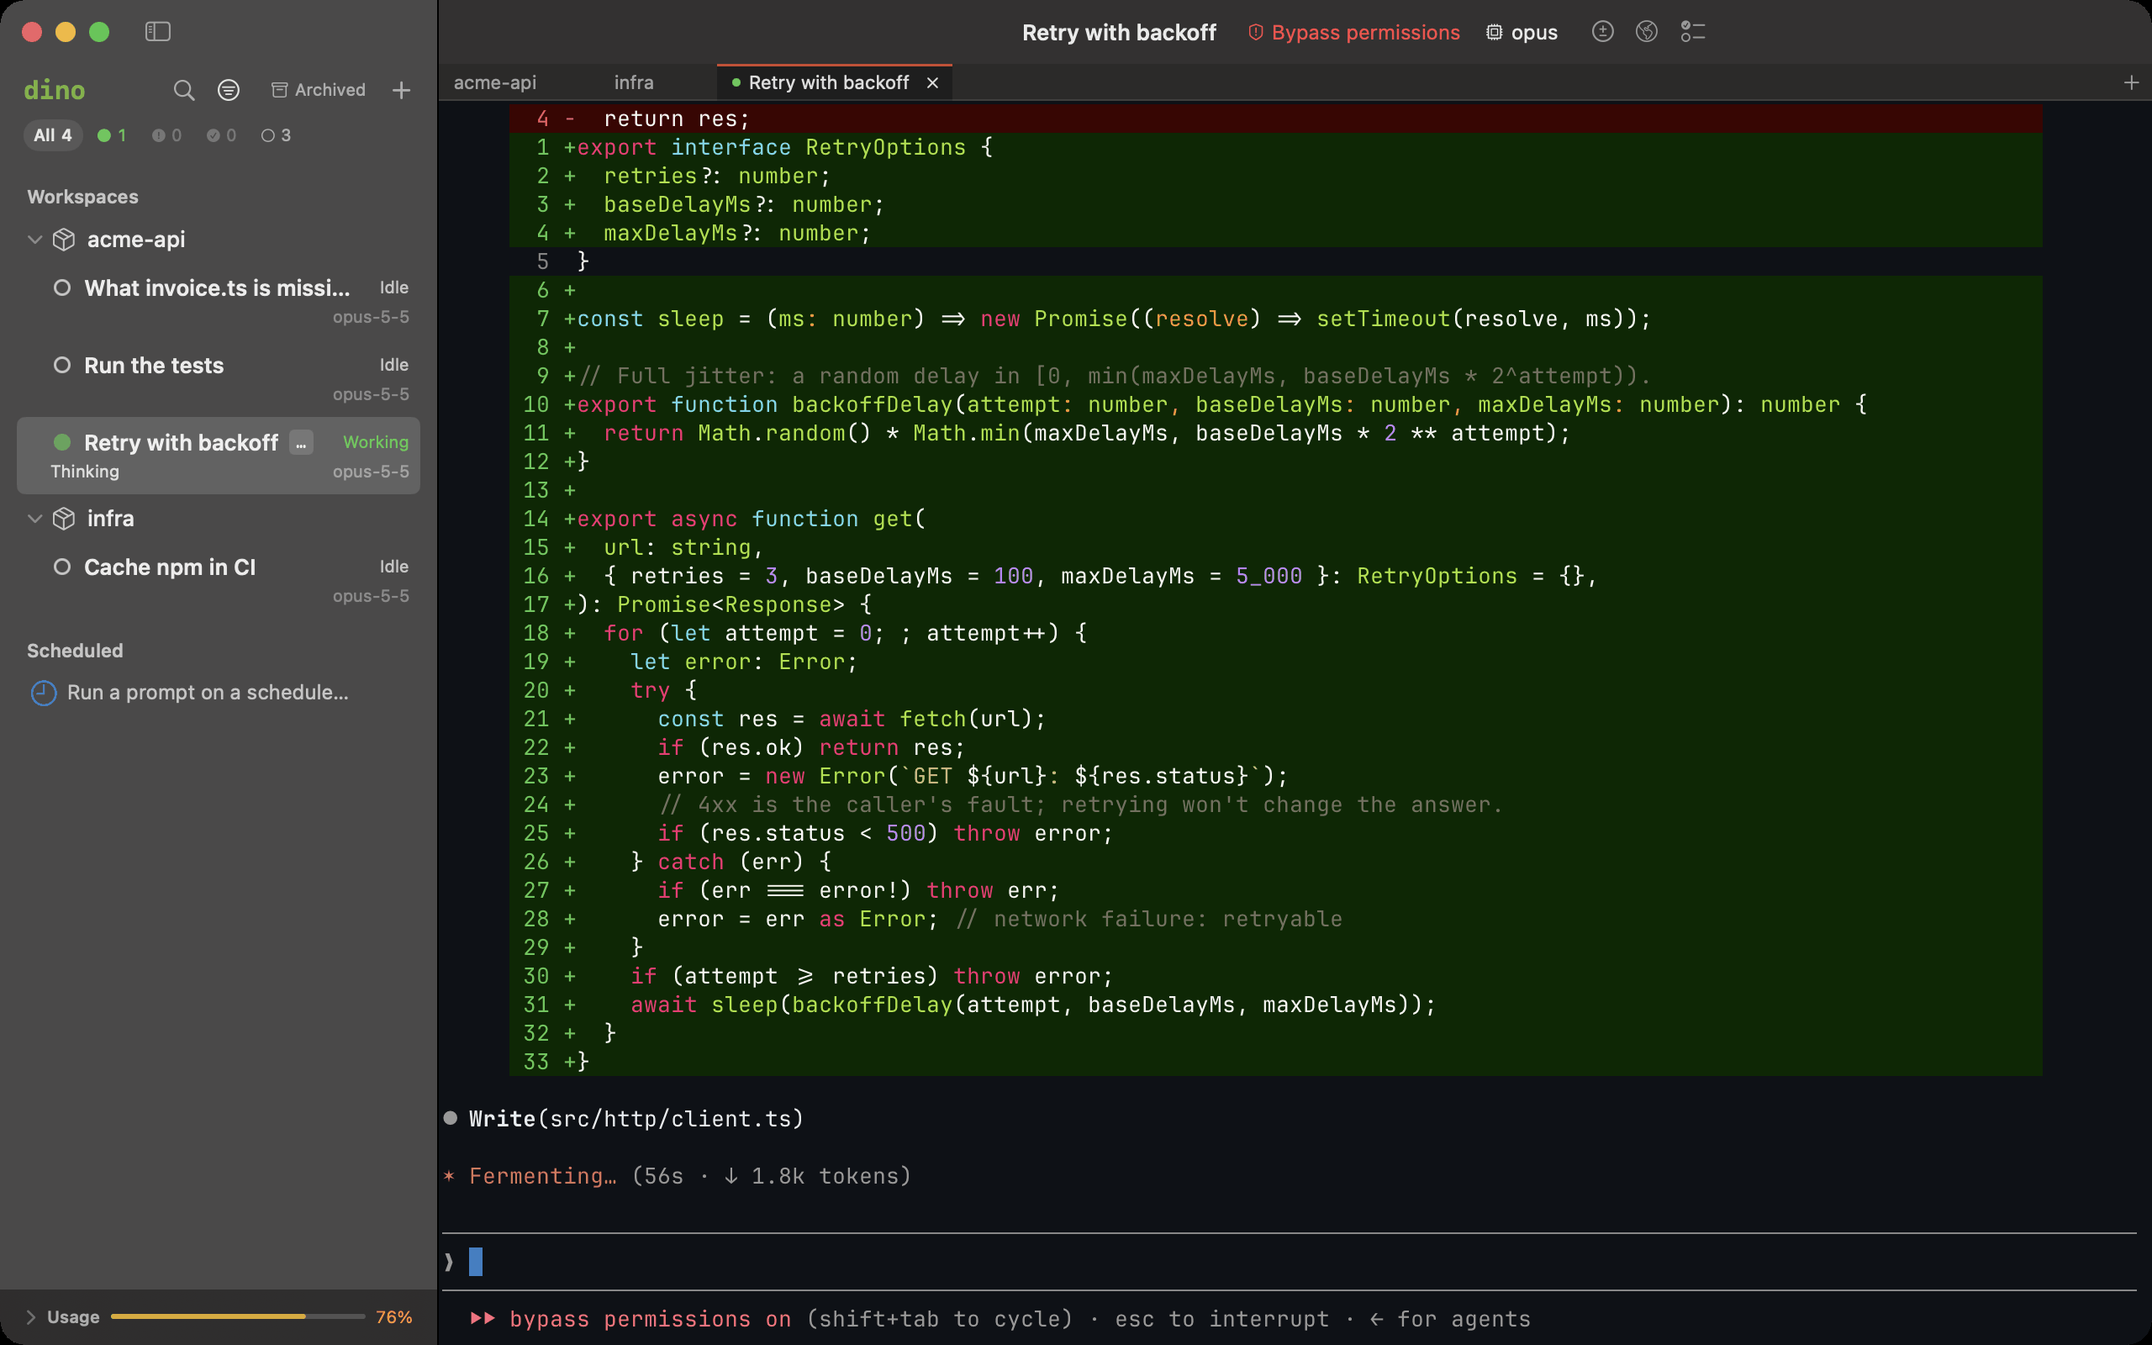
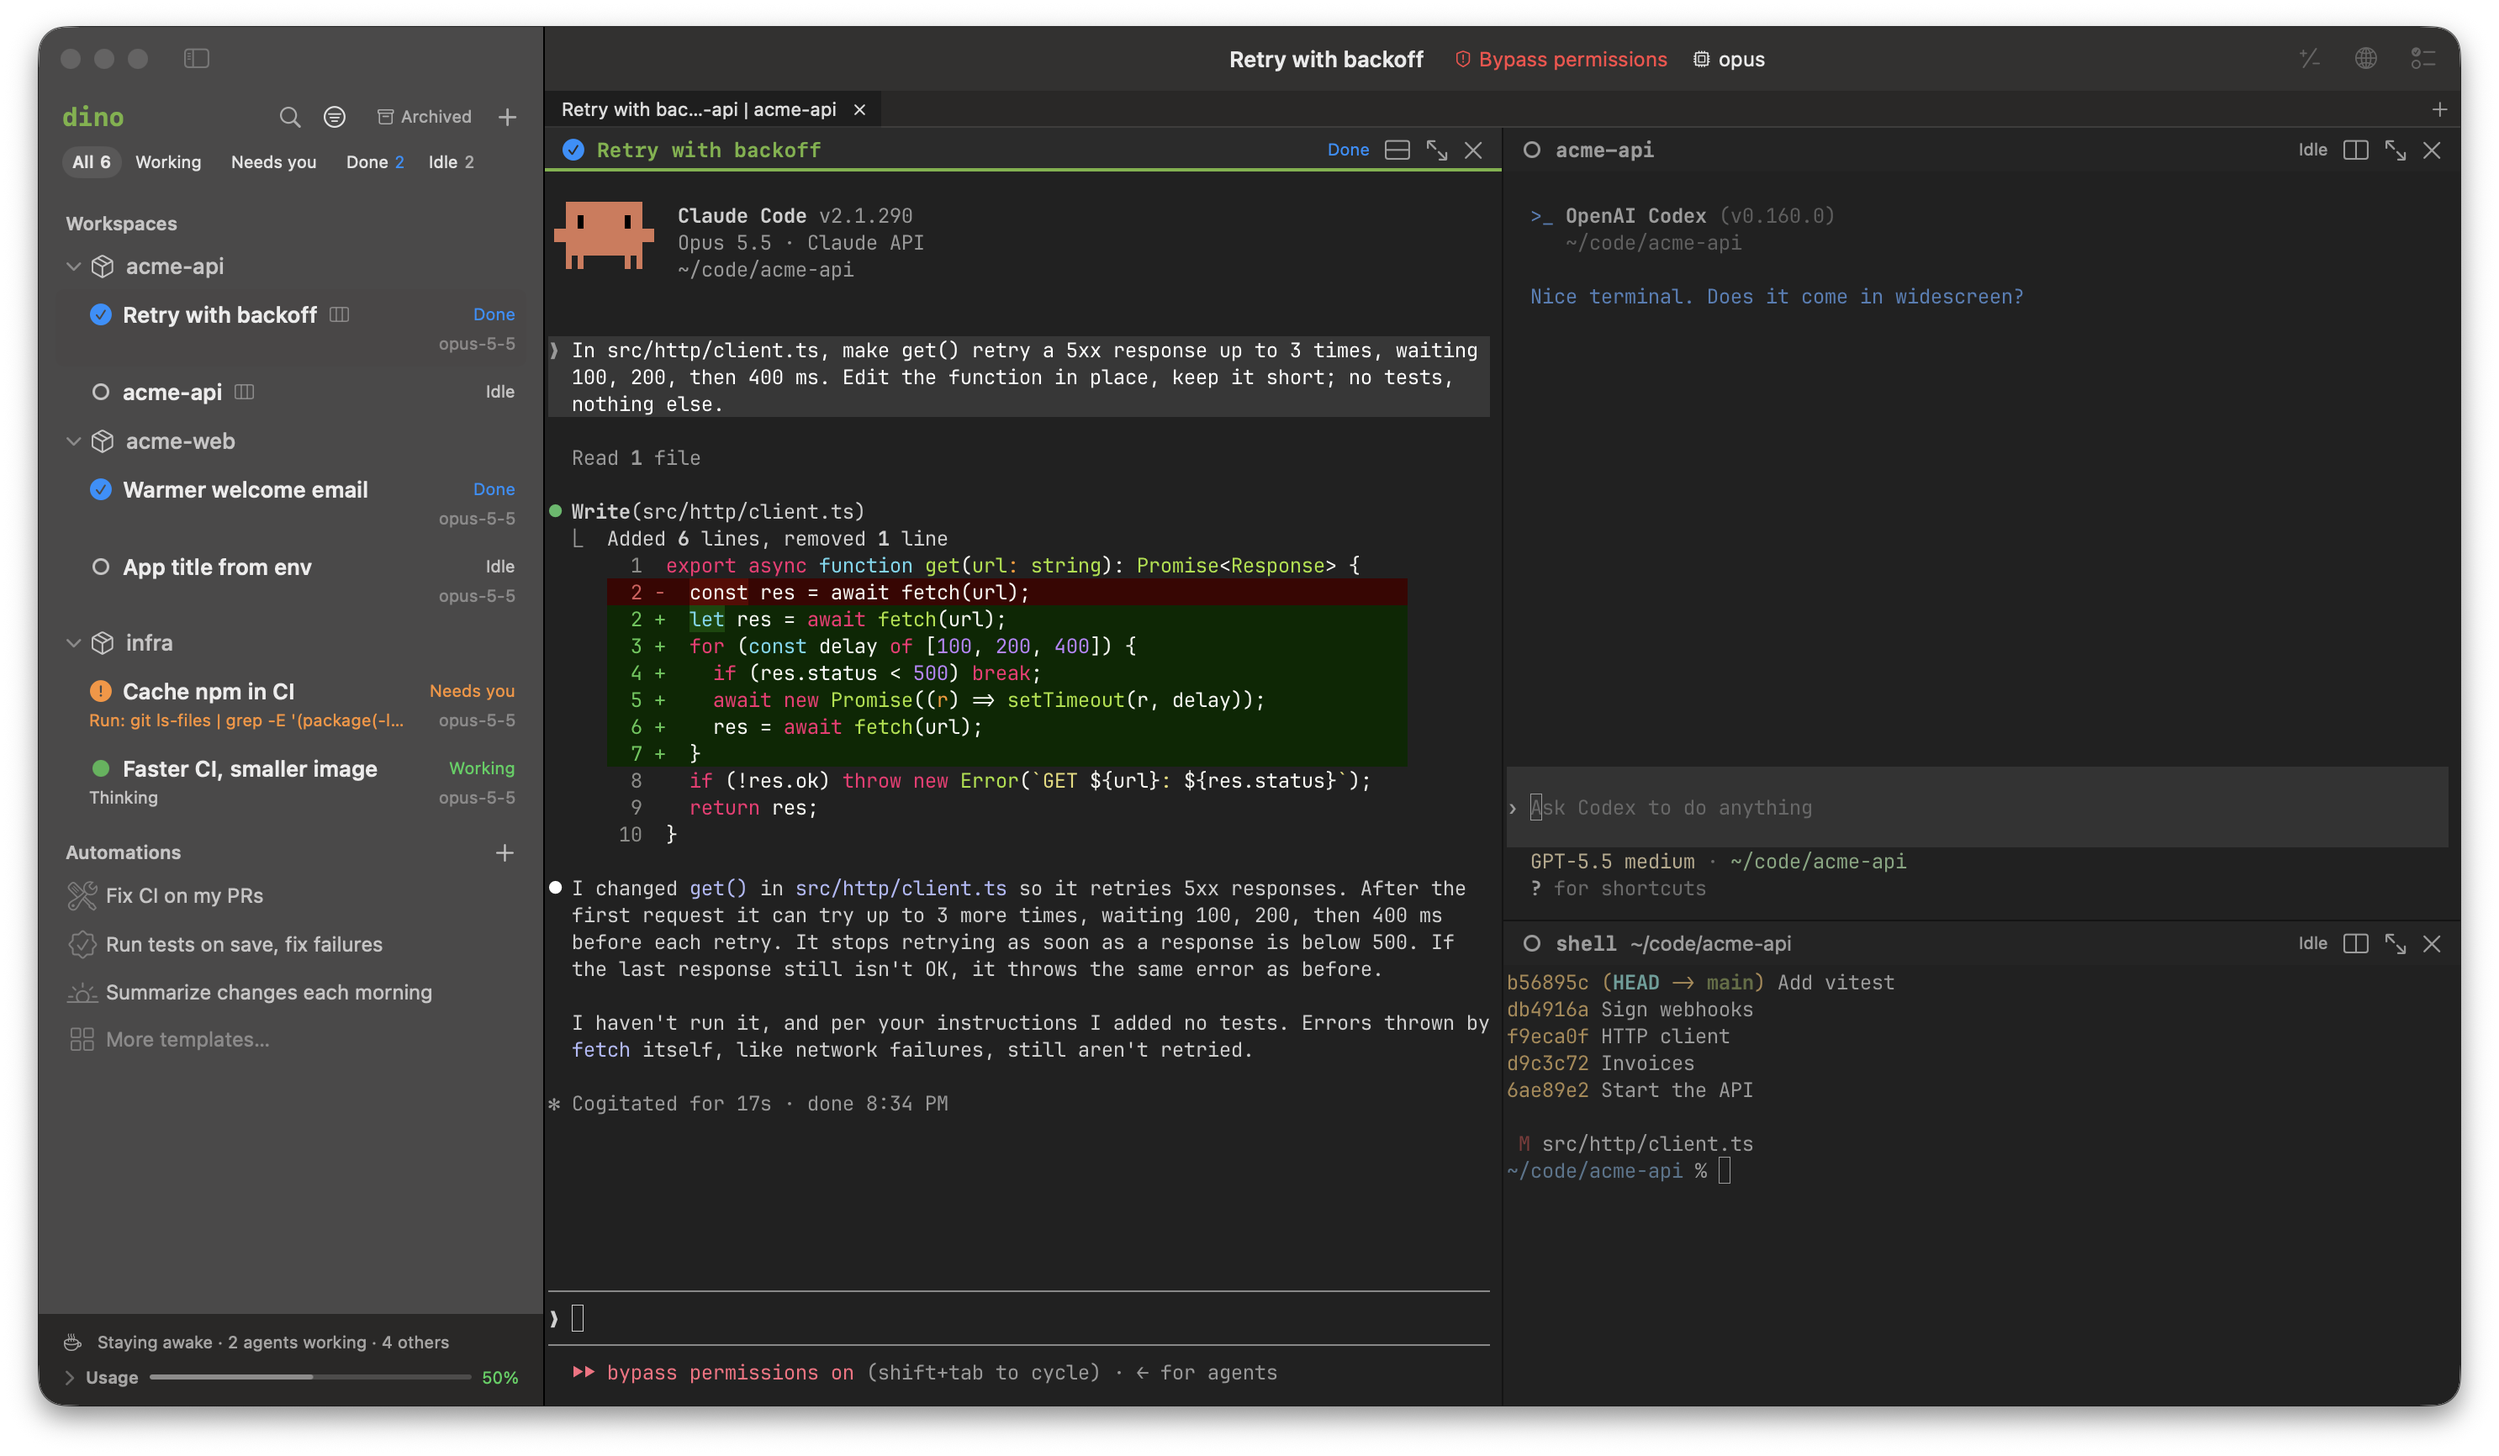
README: the screenshot shows Claude Code, Codex and a shell in three panes, in light and dark

diff --git a/README.md b/README.md
@@ -24,8 +24,7 @@
 <p align="center">
   <picture>
     <source media="(prefers-color-scheme: dark)" srcset="docs/images/screenshot-dark.png">
-    <source media="(prefers-color-scheme: light)" srcset="docs/images/screenshot-light.png">
-    <img src="docs/images/screenshot-light.png" width="900" alt="The dino window: Claude Code sessions on Opus 5.5 grouped by project in the sidebar, and one of them working in Bypass permissions mode, its edits shown as diffs in the terminal">
+    <img src="docs/images/screenshot-light.png" width="900" alt="The dino window split into three panes: on the left, Claude Code on Opus 5.5 in Bypass permissions mode, which has just made get() retry 5xx responses and shows its edit as a diff; on the right, Codex waiting at its prompt above a shell showing git log and the changed file. The sidebar groups sessions by project, each marked Working, Needs you, Done or Idle.">
   </picture>
 </p>
 
